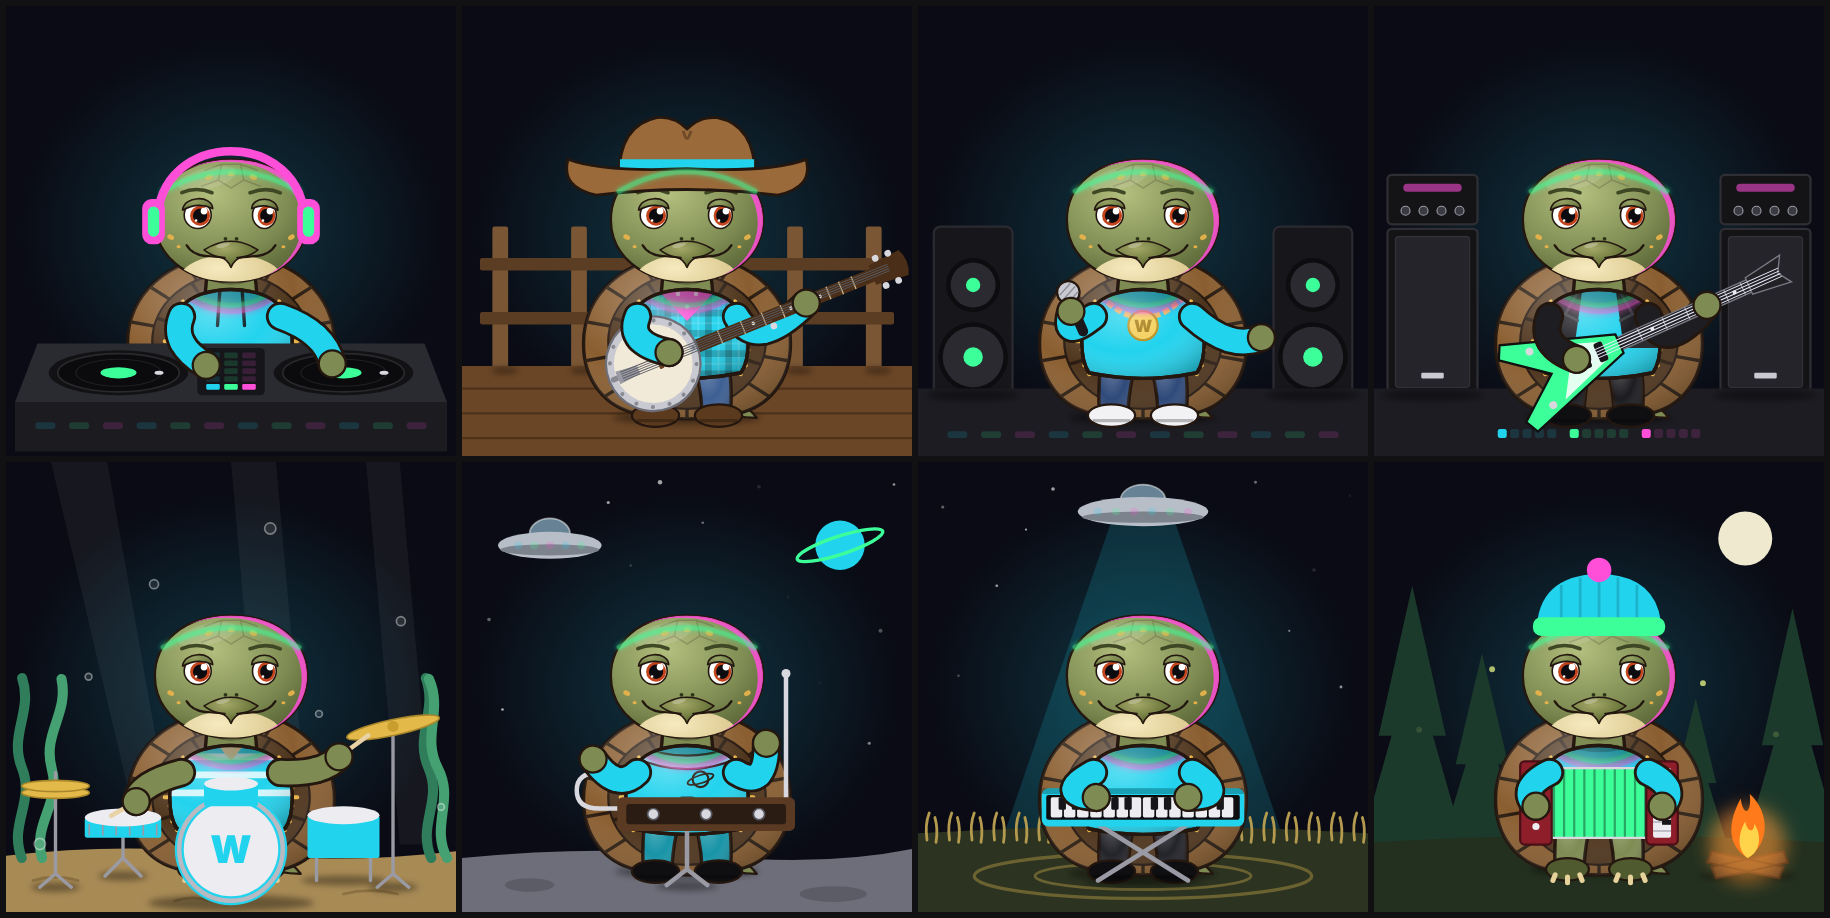
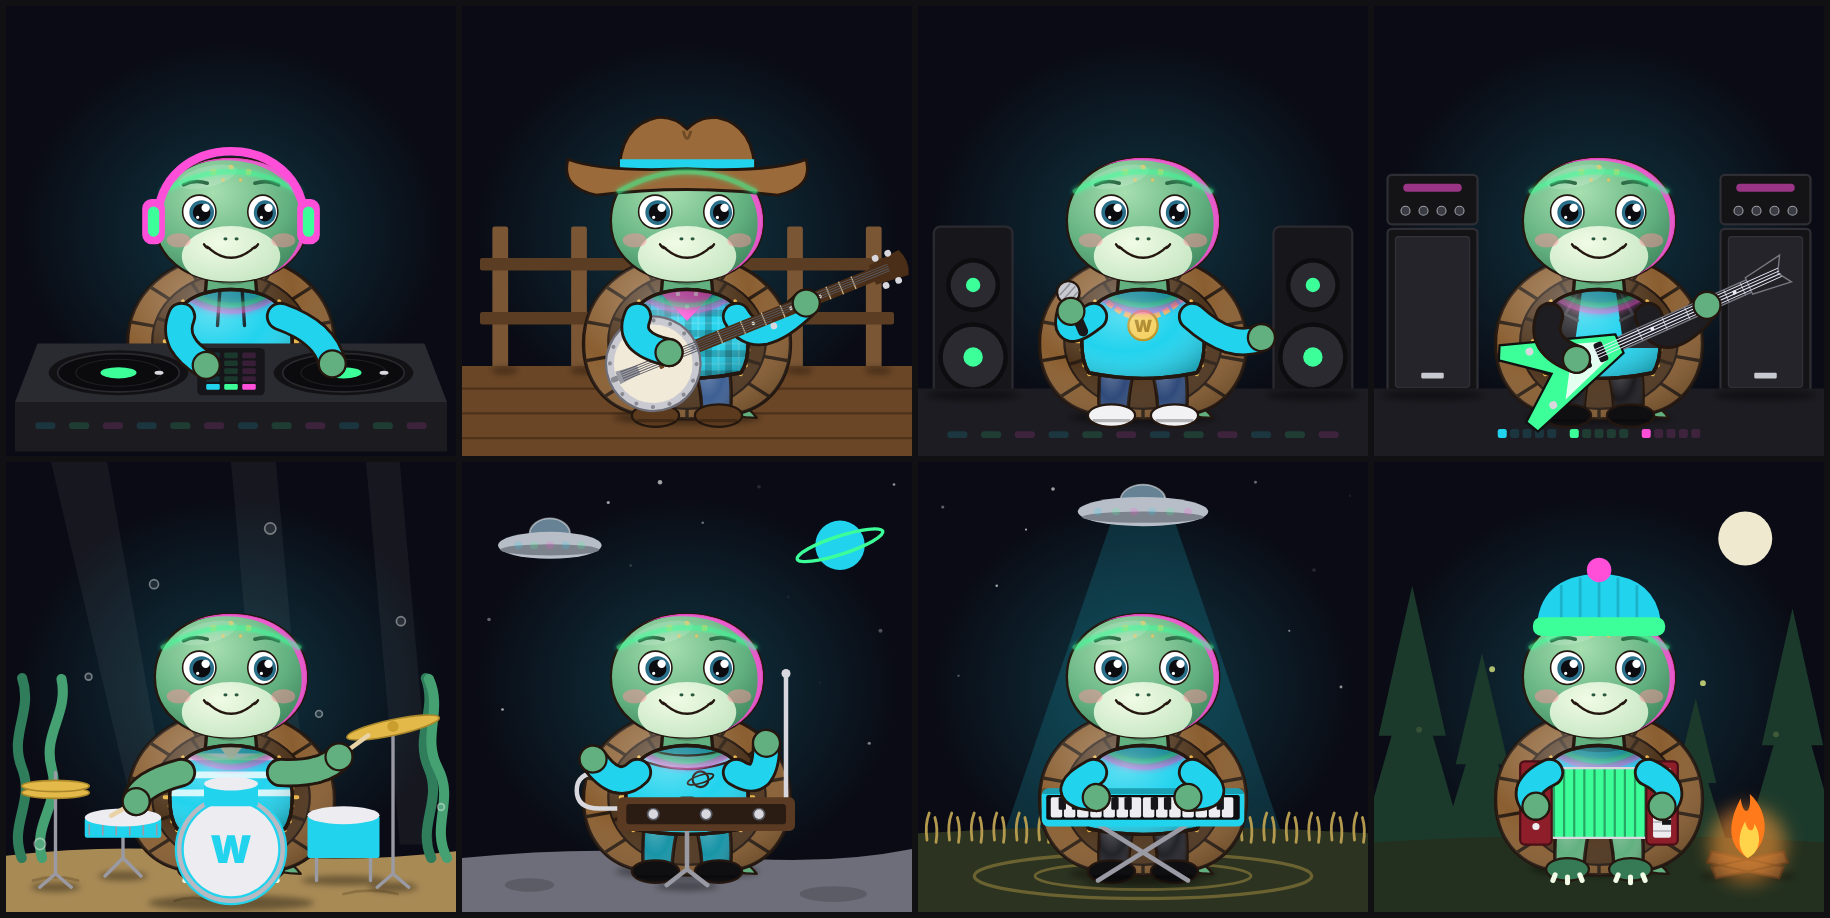
Critters: redraw the turtle's face cuter
The first face (hooked horn beak, heavy lids, olive skin) read as grumpy.
Now: sea-green skin with a soft mint muzzle, big open blue eyes, rosy
cheeks, two little nostrils and a wide smile. Still clear of famous
cartoon turtles. Docs and screenshot updated.

Claude-Session: https://claude.ai/code/session_014p1VaA9199VTy7naFD6qpk

diff --git a/src/components/critters/faces.tsx b/src/components/critters/faces.tsx
@@ -398,52 +398,42 @@ export function MooseFace() {
 }
 
 /**
- * A box turtle's face: a smooth round head in olive skin with faint plates and gold freckles on the crown, a
- * hooked horn beak over a pale chin, two pinprick nostrils, and big ember-red eyes under heavy lids (they blink
- * with the eyes). No ears, so hats and headphones sit on the plain round head; the shell is on the figure
- * (`FIGURES.turtle`).
+ * A turtle's face, drawn cute: a round sea-green head with a soft mint muzzle, a few gold freckles on the
+ * crown, big open eyes, pink cheeks, two little nostrils and a wide happy smile. No ears or horns, so hats and
+ * headphones sit on the plain round head; the shell is on the figure (`FIGURES.turtle`).
  */
 export function TurtleFace() {
   return (
     <Placed cx={206} cy={174} s={0.84}>
       <defs>
-        <Shade id="tt-skin" hi="#b3bf7e" mid="#7e8b52" lo="#4f5a2e" />
-        <Shade id="tt-jaw" hi="#f6ebc0" lo="#d2bb7c" />
-        <Shade id="tt-lid" hi="#97a466" lo="#5b6735" />
-        <Shade id="tt-beak" hi="#a4a868" mid="#6f7a3e" lo="#454d22" />
+        <Shade id="tt-skin" hi="#a6dfb0" mid="#62b07f" lo="#367a55" />
+        <Shade id="tt-muzzle" hi="#f1fbe6" lo="#bfe3bd" />
       </defs>
-      <HeadShape id="turtle" fill="url(#tt-skin)" d="M206 98 C 266 98, 302 132, 302 174 C 302 218, 264 252, 206 252 C 148 252, 110 218, 110 174 C 110 132, 146 98, 206 98 Z">
-        {/* the pale chin and throat */}
-        <ellipse cx="206" cy="248" rx="64" ry="30" fill="url(#tt-jaw)" />
-        {/* plates on the crown, with gold freckles */}
-        <path d="M172 112 L 194 104 L 218 104 L 240 112 M194 104 L 190 124 L 206 134 L 222 124 L 218 104 M190 124 L 168 132 M222 124 L 244 132" fill="none" stroke="rgb(0 0 0 / 0.16)" strokeWidth="2" strokeLinejoin="round" />
-        <g fill="#e2b04a">
-          <ellipse cx="178" cy="120" rx="5" ry="3.5" transform="rotate(-20 178 120)" />
-          <ellipse cx="206" cy="116" rx="4" ry="3" />
-          <ellipse cx="234" cy="120" rx="5" ry="3.5" transform="rotate(20 234 120)" />
-          <ellipse cx="130" cy="196" rx="4.5" ry="3" transform="rotate(30 130 196)" />
-          <ellipse cx="282" cy="196" rx="4.5" ry="3" transform="rotate(-30 282 196)" />
-          <ellipse cx="140" cy="208" rx="2.6" ry="2" />
-          <ellipse cx="272" cy="208" rx="2.6" ry="2" />
+      <HeadShape id="turtle" fill="url(#tt-skin)" d="M206 96 C 266 96, 302 132, 302 176 C 302 220, 264 252, 206 252 C 148 252, 110 220, 110 176 C 110 132, 146 96, 206 96 Z">
+        {/* the soft pale muzzle */}
+        <ellipse cx="206" cy="220" rx="62" ry="38" fill="url(#tt-muzzle)" />
+        <g fill="#e9c35c" opacity="0.85">
+          <circle cx="184" cy="114" r="4" />
+          <circle cx="206" cy="108" r="3.2" />
+          <circle cx="228" cy="114" r="4" />
+          <circle cx="196" cy="124" r="2.2" />
+          <circle cx="218" cy="124" r="2.2" />
         </g>
-        <ellipse cx="176" cy="122" rx="38" ry="13" fill="rgb(255 255 255 / 0.12)" transform="rotate(-14 176 122)" />
+        <ellipse cx="176" cy="120" rx="38" ry="13" fill="rgb(255 255 255 / 0.16)" transform="rotate(-14 176 120)" />
       </HeadShape>
+      {/* rosy cheeks */}
+      <ellipse cx="140" cy="200" rx="15" ry="9" fill="#ff8f9c" opacity="0.5" />
+      <ellipse cx="272" cy="200" rx="15" ry="9" fill="#ff8f9c" opacity="0.5" />
       <g data-part="eyes">
-        <Eye cx={164} cy={168} r={17} iris="#c4441c" />
-        <Eye cx={248} cy={168} r={17} iris="#c4441c" k={0.88} />
-        {/* heavy upper lids */}
-        <path d="M145 162 C 146 144, 182 142, 183 160 Q 164 151 145 162 Z" fill="url(#tt-lid)" className="ol-thin" />
-        <path d="M232 160 C 233 144, 264 144, 265 162 Q 248 152 232 160 Z" fill="url(#tt-lid)" className="ol-thin" />
-        <Lashes l={[149, 158]} r={[262, 158]} />
+        <Eye cx={166} cy={164} r={21} iris="#2a6f8a" />
+        <Eye cx={246} cy={164} r={21} iris="#2a6f8a" k={0.9} />
+        <Lashes l={[148, 152]} r={[262, 152]} />
       </g>
-      <Pair l="M144 140 Q 162 132 182 140" mid={206} stroke="#3f4824" width={4.5} />
-      {/* the horn beak: wide across the face, with a little hook in the middle */}
-      <path d="M172 212 Q 206 190 240 212 Q 230 220 220 221 Q 211 223 206 234 Q 201 223 192 221 Q 182 220 172 212 Z" fill="url(#tt-beak)" className="ol-thin" />
-      <ellipse cx="196" cy="206" rx="9" ry="3" fill="rgb(255 255 255 / 0.25)" transform="rotate(-14 196 206)" />
-      <circle cx="199" cy="198" r="2.4" fill="#2e3518" />
-      <circle cx="213" cy="198" r="2.4" fill="#2e3518" />
-      <path data-part="smile" d="M150 206 Q 158 220 180 220 Q 192 221 198 222 M214 222 Q 220 221 232 220 Q 254 220 262 206" fill="none" stroke={INK} strokeWidth="2.8" strokeLinecap="round" strokeLinejoin="round" />
-      <Mouth id="turtle" x={206} y={226} w={15} h={24} fill="#5a1a24" line={INK} teeth="none" />
+      <Pair l="M146 130 Q 160 123 176 128" mid={206} stroke="#2f6b47" width={4.5} />
+      <ellipse cx="199" cy="198" rx="2.6" ry="2" fill="#2c5a3e" />
+      <ellipse cx="213" cy="198" rx="2.6" ry="2" fill="#2c5a3e" />
+      <path data-part="smile" d="M176 208 Q 206 236 236 208 M172 205 Q 175 210 179 210 M240 205 Q 237 210 233 210" fill="none" stroke={INK} strokeWidth="3" strokeLinecap="round" />
+      <Mouth id="turtle" x={206} y={212} w={16} h={26} fill="#5a1a24" line={INK} teeth="none" />
     </Placed>
   );
 }

diff --git a/src/styles.css b/src/styles.css
@@ -1595,12 +1595,12 @@ html.tv ::-webkit-scrollbar { width: 0; height: 0; }
 .critter .hoof { fill: #2a221c; }
 /* the moose's antlers stick out either side of every hat, but not through the hazmat hood */
 :root[data-skin-group='nuclear'] .critter .moose-antlers { display: none; }
-.species-turtle { --skin: #7e8b52; --skin-dark: #4f5a2e; --belly: #e6d29a; }
+.species-turtle { --skin: #62b07f; --skin-dark: #367a55; --belly: #d9f0cf; }
 .critter .shell { fill: #4e341c; }
 .critter .shell-rim { fill: #8a5e30; }
 .critter .shell-seam { stroke: #2a1c10; fill: none; }
 .critter .shell-ray { stroke: #e8b445; fill: none; }
-.critter .claw { stroke: #e6d29a; fill: none; }
+.critter .claw { stroke: #f1fbe6; fill: none; }
 /* singing faces (face.ts, rig.ts): the mouth shapes scale open from their top edge, brows, whiskers, ears and
    eye shines move about their own box, so the rig can write plain CSS transforms on them */
 .critter [data-part='yawn'] { transform-box: fill-box; transform-origin: 50% 0; }

diff --git a/src/components/critters/bodies.tsx b/src/components/critters/bodies.tsx
@@ -305,7 +305,7 @@ const RAYS = [-140, -90, -40, 0, 180, 150, 30]
   .join(' ');
 
 /**
- * Turtle (a box turtle): a round top over a tall domed shell whose rim shows behind the shoulders and either
+ * Turtle: a round top over a tall domed shell whose rim shows behind the shoulders and either
  * side of the clothes. The shell is drawn under the top, so every act's outfit goes over it and the arms and
  * instruments in front of it (the hazmat suit covers it). A short scaly neck, stumpy legs with blunt claws (or
  * the act's shoes) and a little pointed tail.

diff --git a/docs/USER-GUIDE.md b/docs/USER-GUIDE.md
@@ -468,7 +468,7 @@ alien are all possible.
 | **Gray alien** | The classic grey: a big bulb head tapering to a pointed chin, huge black eyes and a slim body |
 | **Black bear** / **Brown bear** | Round ears and a pale muzzle, in black or brown fur |
 | **Moose** | Dark brown with a big droopy muzzle, a fur bell under the chin, long ears, pale stockings and hooves, and wide flat antlers that stick out either side of any hat (and tuck under the hazmat hood) |
-| **Turtle** | A box turtle with olive skin, gold freckles, a hooked beak and ember-red eyes, carrying a high domed shell whose rim shows round any outfit |
+| **Turtle** | Sea-green with a soft mint muzzle, big blue eyes, rosy cheeks and a wide smile, carrying a high domed shell whose rim shows round any outfit |
 
 <img src="screenshots/critter-moose.png" alt="The moose in all eight acts: DJ in headphones, Country in a cowboy hat with its antlers either side of the crown, Rapper, Rocker, Drummer, Theremin, Synth and Accordion in a beanie" width="90%">
 
@@ -552,7 +552,7 @@ cowgirl denim fringe skirt, a pleated mini (Rapper), a pink tutu (Rocker), a sai
 signed in to a [Wavelength Hub](HUB.md), your picks follow you to your other devices. A pick from before
 0.17.9 carries over: the DJ raccoon stays the DJ raccoon, the shark keeps drumming, and so on.
 
-**They dress for your theme.** Fur and skin keep their colours (raccoon grey, shark blue-grey, alien green, grey alien grey, bear black or brown, moose brown, turtle olive),
+**They dress for your theme.** Fur and skin keep their colours (raccoon grey, shark blue-grey, alien green, grey alien grey, bear black or brown, moose brown, turtle sea-green),
 but their clothes, instruments and lights take your skin's colours, so every skin dresses them differently.
 Some groups of skins give them a whole outfit:
 

diff --git a/docs/CRITTERS-ROADMAP.md b/docs/CRITTERS-ROADMAP.md
@@ -114,9 +114,10 @@ the asset work and a risk on low-end phones and the iOS WebView.
   act's hat and the headphones sit between them with the palms showing either side; the hazmat hood hides them.
   Its figure (`FIGURES.moose`) is a deep chest on long legs with pale stockings and cloven hooves (or the act's
   shoes), and a tiny tail.
-- A turtle (eighth species, November 2026): a box turtle, kept clear of any famous cartoon turtle (no mask,
-  no bandana, no spiky shell). Olive skin with gold freckles and faint crown plates, a hooked horn beak over a
-  pale chin, and ember-red eyes under heavy lids. Its figure (`FIGURES.turtle`) draws a high domed shell under
+- A turtle (eighth species, November 2026), kept clear of any famous cartoon turtle (no mask, no bandana,
+  no spiky shell, no orange shell with a yellow front). Sea-green skin with a soft mint muzzle and a few gold
+  freckles, big blue eyes, rosy cheeks and a wide smile. A first draft had a hooked beak and heavy lids; it
+  looked grumpy, so the face was redrawn cuter. Its figure (`FIGURES.turtle`) draws a high domed shell under
   the top, wider than it, so the gold-rayed rim shows round any act's clothes while the arms and instruments go
   in front; then stumpy legs with blunt claws (or the act's shoes) and a pointed tail. No ears or horns, so
   every hat fits the head unchanged.

diff --git a/CHANGELOG.md b/CHANGELOG.md
@@ -1,8 +1,8 @@
 # Changelog
 
 ## Unreleased
-- **A turtle critter.** The eighth species: a box turtle with olive skin, gold freckles, a hooked horn beak and
-  ember-red eyes under heavy lids, on stumpy clawed legs with a little pointed tail. Its high domed shell is
+- **A turtle critter.** The eighth species: a cute sea-green turtle with a soft mint muzzle, big blue eyes, rosy
+  cheeks and a wide smile, on stumpy clawed legs with a little pointed tail. Its high domed shell is
   drawn behind the top, so the rim shows round every act's outfit and the instruments and arms go in front of it.
   The plain round head takes every hat, the headphones, the visor and the respirator. It plays all eight acts as a
   boy or a girl (`TurtleFace` in `faces.tsx`, `FIGURES.turtle` in `bodies.tsx`).
